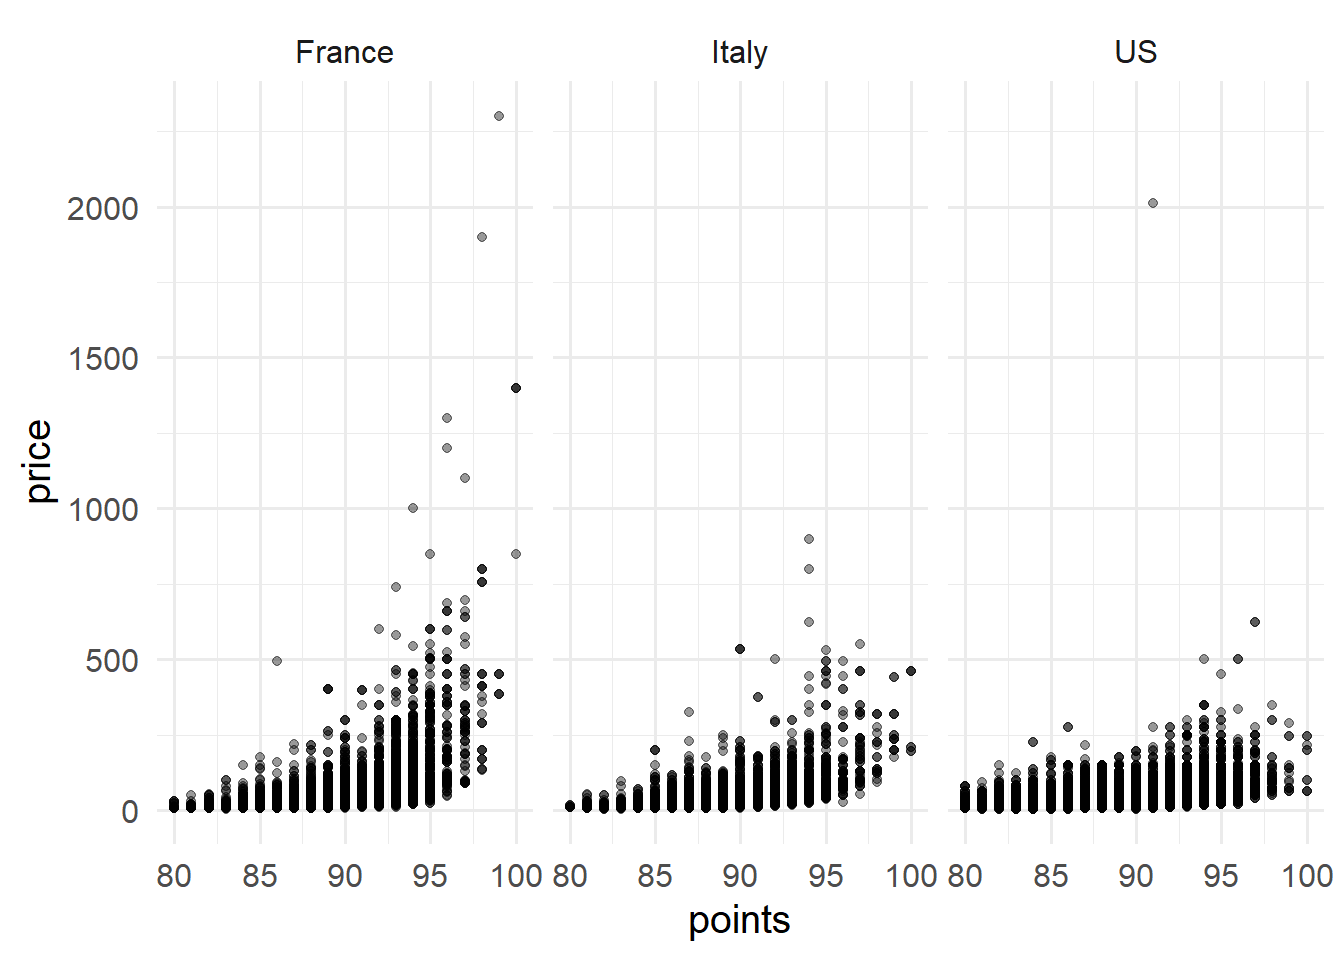
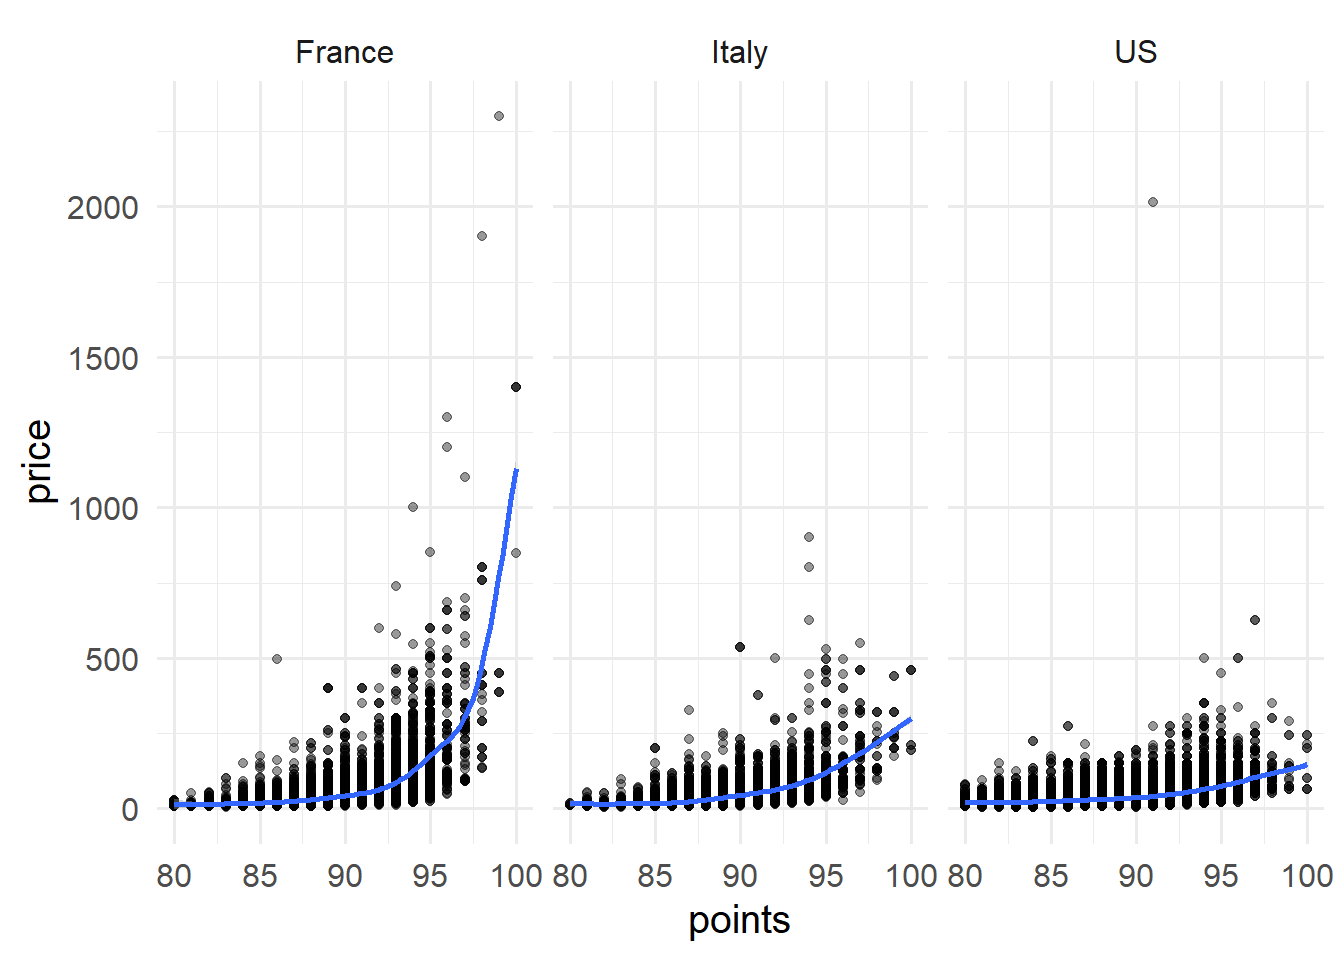
corrections to class 12

diff --git a/_site/12eda.html b/_site/12eda.html
@@ -287,7 +287,7 @@ $ variety     &lt;chr&gt; "Cabernet Sauvignon", "Tinta de Toro", "Sauvignon Blan
 $ winery      &lt;chr&gt; "Heitz", "Bodega Carmen Rodríguez", "Macauley", "Ponzi", "…</code></pre>
 </div>
 </div>
-<p>There’s plenty of variables but we will focus on 3: country (where the vineyard is located), points (score awarded by reviewer) and price (price of the wine). There is a number of things we might want to look at to get to know the data better. Lets start with the numeric columns. A good point to start is to look at some summary statistics like means, standard deviations, minimum and maximum values.</p>
+<p>There’s plenty of variables but we will focus on 3: country (where the vineyard is located), points (score awarded by reviewer) and price (price of the wine). There is a number of things we might want to look at to get to know the data better. Lets start with the numeric columns. A good point to start is to look at some summary statistics like means, standard deviations, minimum and maximum values (we’ll use <code>knitr::kable()</code> just to make the table look nicer in the output).</p>
 <div class="cell">
 <div class="sourceCode cell-code" id="cb7"><pre class="sourceCode r code-with-copy"><code class="sourceCode r"><span id="cb7-1"><a href="#cb7-1" aria-hidden="true" tabindex="-1"></a>wine <span class="ot">&lt;-</span> wine <span class="sc">%&gt;%</span></span>
 <span id="cb7-2"><a href="#cb7-2" aria-hidden="true" tabindex="-1"></a>  <span class="fu">select</span>(<span class="sc">-</span><span class="st">`</span><span class="at">...1</span><span class="st">`</span>)</span>
@@ -665,7 +665,7 @@ Dołączanie pakietu: 'psych'</code></pre>
 <p><img src="12eda_files/figure-html/unnamed-chunk-8-1.png" class="img-fluid" width="672"></p>
 </div>
 </div>
-<p>Another good idea might be looktng at price and scores e.g.&nbsp;in different countries. Lets focus again on a subset of countries: US, Italy and France.</p>
+<p>Seems that as the score increases the variability in price goes up as well. especially above 90 points. Another good idea might be looktng at price and scores e.g.&nbsp;in different countries. Lets focus again on a subset of countries: US, Italy and France.</p>
 <div class="cell">
 <div class="sourceCode cell-code" id="cb23"><pre class="sourceCode r code-with-copy"><code class="sourceCode r"><span id="cb23-1"><a href="#cb23-1" aria-hidden="true" tabindex="-1"></a>wine <span class="sc">%&gt;%</span></span>
 <span id="cb23-2"><a href="#cb23-2" aria-hidden="true" tabindex="-1"></a>  <span class="fu">filter</span>(country <span class="sc">%in%</span> <span class="fu">c</span>(<span class="st">"US"</span>, <span class="st">"Italy"</span>, <span class="st">"France"</span>)) <span class="sc">%&gt;%</span></span>
@@ -698,7 +698,14 @@ Dołączanie pakietu: 'psych'</code></pre>
 <span id="cb27-2"><a href="#cb27-2" aria-hidden="true" tabindex="-1"></a>  <span class="fu">filter</span>(country <span class="sc">%in%</span> <span class="fu">c</span>(<span class="st">"US"</span>, <span class="st">"Italy"</span>, <span class="st">"France"</span>)) <span class="sc">%&gt;%</span></span>
 <span id="cb27-3"><a href="#cb27-3" aria-hidden="true" tabindex="-1"></a>  <span class="fu">ggplot</span>(<span class="fu">aes</span>(<span class="at">x =</span> points, <span class="at">y =</span> price)) <span class="sc">+</span></span>
 <span id="cb27-4"><a href="#cb27-4" aria-hidden="true" tabindex="-1"></a>  <span class="fu">geom_point</span>(<span class="at">alpha =</span> .<span class="dv">4</span>) <span class="sc">+</span></span>
-<span id="cb27-5"><a href="#cb27-5" aria-hidden="true" tabindex="-1"></a>  <span class="fu">facet_wrap</span>(<span class="sc">~</span>country)</span></code><button title="Copy to Clipboard" class="code-copy-button"><i class="bi"></i></button></pre></div>
+<span id="cb27-5"><a href="#cb27-5" aria-hidden="true" tabindex="-1"></a>  <span class="fu">geom_smooth</span>() <span class="sc">+</span></span>
+<span id="cb27-6"><a href="#cb27-6" aria-hidden="true" tabindex="-1"></a>  <span class="fu">facet_wrap</span>(<span class="sc">~</span>country)</span></code><button title="Copy to Clipboard" class="code-copy-button"><i class="bi"></i></button></pre></div>
+<div class="cell-output cell-output-stderr">
+<pre><code>`geom_smooth()` using method = 'gam' and formula = 'y ~ s(x, bs = "cs")'</code></pre>
+</div>
+<div class="cell-output cell-output-stderr">
+<pre><code>Warning: Removed 11265 rows containing non-finite values (`stat_smooth()`).</code></pre>
+</div>
 <div class="cell-output cell-output-stderr">
 <pre><code>Warning: Removed 11265 rows containing missing values (`geom_point()`).</code></pre>
 </div>
@@ -733,11 +740,11 @@ $ att_migrants   &lt;dbl&gt; 6.12, -0.62, -2.12, 5.68, 6.00, 0.54, 5.70, 7.04, 6
 </div>
 <p>Lets look at some summary statistics first:</p>
 <div class="cell">
-<div class="sourceCode cell-code" id="cb30"><pre class="sourceCode r code-with-copy"><code class="sourceCode r"><span id="cb30-1"><a href="#cb30-1" aria-hidden="true" tabindex="-1"></a>experiment <span class="sc">%&gt;%</span></span>
-<span id="cb30-2"><a href="#cb30-2" aria-hidden="true" tabindex="-1"></a>  <span class="fu">group_by</span>(condition) <span class="sc">%&gt;%</span></span>
-<span id="cb30-3"><a href="#cb30-3" aria-hidden="true" tabindex="-1"></a>  <span class="fu">summarise</span>(<span class="at">mean_att =</span> <span class="fu">mean</span>(att_migrants),</span>
-<span id="cb30-4"><a href="#cb30-4" aria-hidden="true" tabindex="-1"></a>            <span class="at">se_att =</span> <span class="fu">sd</span>(att_migrants)<span class="sc">/</span><span class="fu">sqrt</span>(<span class="fu">n</span>())) <span class="sc">%&gt;%</span></span>
-<span id="cb30-5"><a href="#cb30-5" aria-hidden="true" tabindex="-1"></a>  knitr<span class="sc">::</span><span class="fu">kable</span>()</span></code><button title="Copy to Clipboard" class="code-copy-button"><i class="bi"></i></button></pre></div>
+<div class="sourceCode cell-code" id="cb32"><pre class="sourceCode r code-with-copy"><code class="sourceCode r"><span id="cb32-1"><a href="#cb32-1" aria-hidden="true" tabindex="-1"></a>experiment <span class="sc">%&gt;%</span></span>
+<span id="cb32-2"><a href="#cb32-2" aria-hidden="true" tabindex="-1"></a>  <span class="fu">group_by</span>(condition) <span class="sc">%&gt;%</span></span>
+<span id="cb32-3"><a href="#cb32-3" aria-hidden="true" tabindex="-1"></a>  <span class="fu">summarise</span>(<span class="at">mean_att =</span> <span class="fu">mean</span>(att_migrants),</span>
+<span id="cb32-4"><a href="#cb32-4" aria-hidden="true" tabindex="-1"></a>            <span class="at">se_att =</span> <span class="fu">sd</span>(att_migrants)<span class="sc">/</span><span class="fu">sqrt</span>(<span class="fu">n</span>())) <span class="sc">%&gt;%</span></span>
+<span id="cb32-5"><a href="#cb32-5" aria-hidden="true" tabindex="-1"></a>  knitr<span class="sc">::</span><span class="fu">kable</span>()</span></code><button title="Copy to Clipboard" class="code-copy-button"><i class="bi"></i></button></pre></div>
 <div class="cell-output-display">
 <table class="table table-sm table-striped small">
 <thead>
@@ -764,27 +771,27 @@ $ att_migrants   &lt;dbl&gt; 6.12, -0.62, -2.12, 5.68, 6.00, 0.54, 5.70, 7.04, 6
 </div>
 <p>Well, it does not look like there are any meaningful differences between the conditions. We can also plot these differences:</p>
 <div class="cell">
-<div class="sourceCode cell-code" id="cb31"><pre class="sourceCode r code-with-copy"><code class="sourceCode r"><span id="cb31-1"><a href="#cb31-1" aria-hidden="true" tabindex="-1"></a>experiment <span class="sc">%&gt;%</span></span>
-<span id="cb31-2"><a href="#cb31-2" aria-hidden="true" tabindex="-1"></a>  <span class="fu">ggplot</span>(<span class="fu">aes</span>(<span class="at">x =</span> condition, <span class="at">y =</span> att_migrants)) <span class="sc">+</span></span>
-<span id="cb31-3"><a href="#cb31-3" aria-hidden="true" tabindex="-1"></a>  <span class="fu">stat_summary</span>(<span class="at">fun.data =</span> <span class="st">"mean_se"</span>, <span class="at">geom =</span> <span class="st">"pointrange"</span>) <span class="sc">+</span></span>
-<span id="cb31-4"><a href="#cb31-4" aria-hidden="true" tabindex="-1"></a>  <span class="fu">coord_cartesian</span>(<span class="at">ylim =</span> <span class="fu">c</span>(<span class="dv">0</span>,<span class="dv">5</span>))</span></code><button title="Copy to Clipboard" class="code-copy-button"><i class="bi"></i></button></pre></div>
+<div class="sourceCode cell-code" id="cb33"><pre class="sourceCode r code-with-copy"><code class="sourceCode r"><span id="cb33-1"><a href="#cb33-1" aria-hidden="true" tabindex="-1"></a>experiment <span class="sc">%&gt;%</span></span>
+<span id="cb33-2"><a href="#cb33-2" aria-hidden="true" tabindex="-1"></a>  <span class="fu">ggplot</span>(<span class="fu">aes</span>(<span class="at">x =</span> condition, <span class="at">y =</span> att_migrants)) <span class="sc">+</span></span>
+<span id="cb33-3"><a href="#cb33-3" aria-hidden="true" tabindex="-1"></a>  <span class="fu">stat_summary</span>(<span class="at">fun.data =</span> <span class="st">"mean_se"</span>, <span class="at">geom =</span> <span class="st">"pointrange"</span>) <span class="sc">+</span></span>
+<span id="cb33-4"><a href="#cb33-4" aria-hidden="true" tabindex="-1"></a>  <span class="fu">coord_cartesian</span>(<span class="at">ylim =</span> <span class="fu">c</span>(<span class="dv">0</span>,<span class="dv">5</span>))</span></code><button title="Copy to Clipboard" class="code-copy-button"><i class="bi"></i></button></pre></div>
 <div class="cell-output-display">
 <p><img src="12eda_files/figure-html/unnamed-chunk-14-1.png" class="img-fluid" width="672"></p>
 </div>
 </div>
 <p>This is a bit disappointing. We could say that we did not reject the null hypothesis and there is no support in the data that reading a negative article affect attitudes towards migrants relative to reading a neutral article. Lets at least look at the correlation between media exposure and attitude towards migrants. Maybe there is something interesting there? We can use the <code>cor()</code> function for it:</p>
 <div class="cell">
-<div class="sourceCode cell-code" id="cb32"><pre class="sourceCode r code-with-copy"><code class="sourceCode r"><span id="cb32-1"><a href="#cb32-1" aria-hidden="true" tabindex="-1"></a><span class="fu">cor</span>(experiment<span class="sc">$</span>media_exposure, experiment<span class="sc">$</span>att_migrants)</span></code><button title="Copy to Clipboard" class="code-copy-button"><i class="bi"></i></button></pre></div>
+<div class="sourceCode cell-code" id="cb34"><pre class="sourceCode r code-with-copy"><code class="sourceCode r"><span id="cb34-1"><a href="#cb34-1" aria-hidden="true" tabindex="-1"></a><span class="fu">cor</span>(experiment<span class="sc">$</span>media_exposure, experiment<span class="sc">$</span>att_migrants)</span></code><button title="Copy to Clipboard" class="code-copy-button"><i class="bi"></i></button></pre></div>
 <div class="cell-output cell-output-stdout">
 <pre><code>[1] -0.2702737</code></pre>
 </div>
 </div>
 <p>Well the correlation seems negative and it definitely is not small. Maybe we are finally on to something! So lets finally plot the data to see how it looks like:</p>
 <div class="cell">
-<div class="sourceCode cell-code" id="cb34"><pre class="sourceCode r code-with-copy"><code class="sourceCode r"><span id="cb34-1"><a href="#cb34-1" aria-hidden="true" tabindex="-1"></a>experiment <span class="sc">%&gt;%</span></span>
-<span id="cb34-2"><a href="#cb34-2" aria-hidden="true" tabindex="-1"></a>  <span class="fu">ggplot</span>(<span class="fu">aes</span>(<span class="at">x =</span> media_exposure, <span class="at">y =</span> att_migrants)) <span class="sc">+</span></span>
-<span id="cb34-3"><a href="#cb34-3" aria-hidden="true" tabindex="-1"></a>  <span class="fu">geom_point</span>() <span class="sc">+</span></span>
-<span id="cb34-4"><a href="#cb34-4" aria-hidden="true" tabindex="-1"></a>  <span class="fu">geom_smooth</span>(<span class="at">method =</span> <span class="st">"lm"</span>)</span></code><button title="Copy to Clipboard" class="code-copy-button"><i class="bi"></i></button></pre></div>
+<div class="sourceCode cell-code" id="cb36"><pre class="sourceCode r code-with-copy"><code class="sourceCode r"><span id="cb36-1"><a href="#cb36-1" aria-hidden="true" tabindex="-1"></a>experiment <span class="sc">%&gt;%</span></span>
+<span id="cb36-2"><a href="#cb36-2" aria-hidden="true" tabindex="-1"></a>  <span class="fu">ggplot</span>(<span class="fu">aes</span>(<span class="at">x =</span> media_exposure, <span class="at">y =</span> att_migrants)) <span class="sc">+</span></span>
+<span id="cb36-3"><a href="#cb36-3" aria-hidden="true" tabindex="-1"></a>  <span class="fu">geom_point</span>() <span class="sc">+</span></span>
+<span id="cb36-4"><a href="#cb36-4" aria-hidden="true" tabindex="-1"></a>  <span class="fu">geom_smooth</span>(<span class="at">method =</span> <span class="st">"lm"</span>)</span></code><button title="Copy to Clipboard" class="code-copy-button"><i class="bi"></i></button></pre></div>
 <div class="cell-output cell-output-stderr">
 <pre><code>`geom_smooth()` using formula = 'y ~ x'</code></pre>
 </div>
@@ -798,8 +805,9 @@ $ att_migrants   &lt;dbl&gt; 6.12, -0.62, -2.12, 5.68, 6.00, 0.54, 5.70, 7.04, 6
 </section>
 <section id="exercises" class="level2">
 <h2 class="anchored" data-anchor-id="exercises">Exercises</h2>
+<p>Download the dataset and its codebook</p>
 <ol type="1">
-<li>Look at the dataset and its codebook. Try to validate it and make sure all variables are coded correctly</li>
+<li>Look at the dataset and its codebook. Try to validate the data and make sure all variables are coded correctly</li>
 <li>Explore the data with plots - does the data look ok?</li>
 </ol>
 
